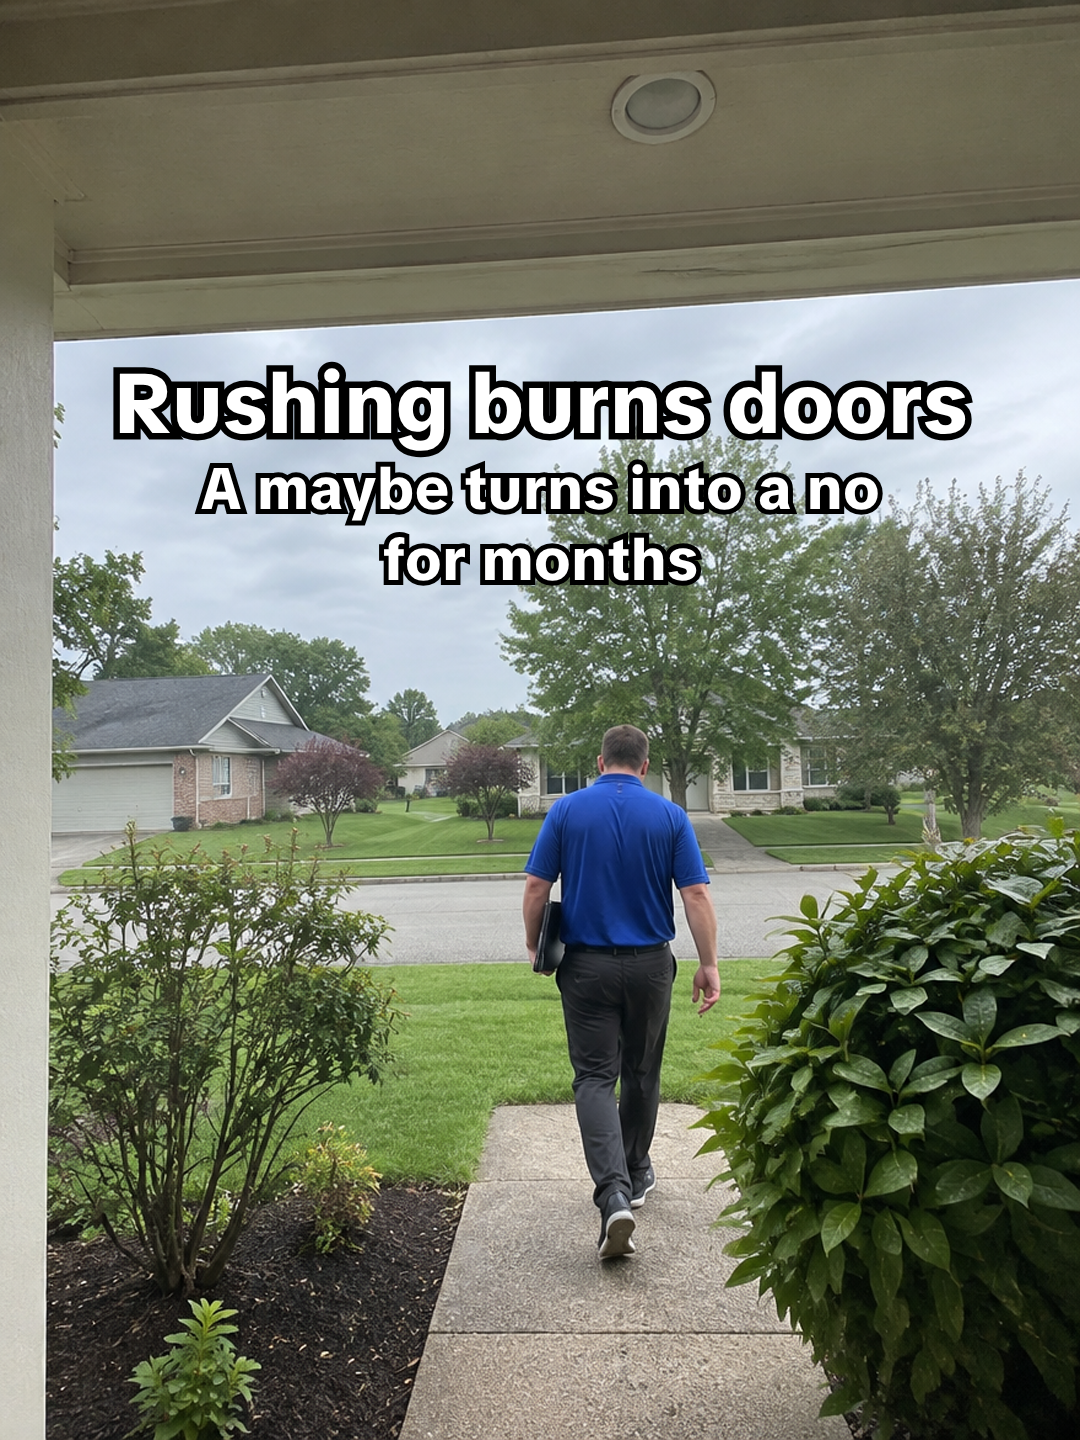
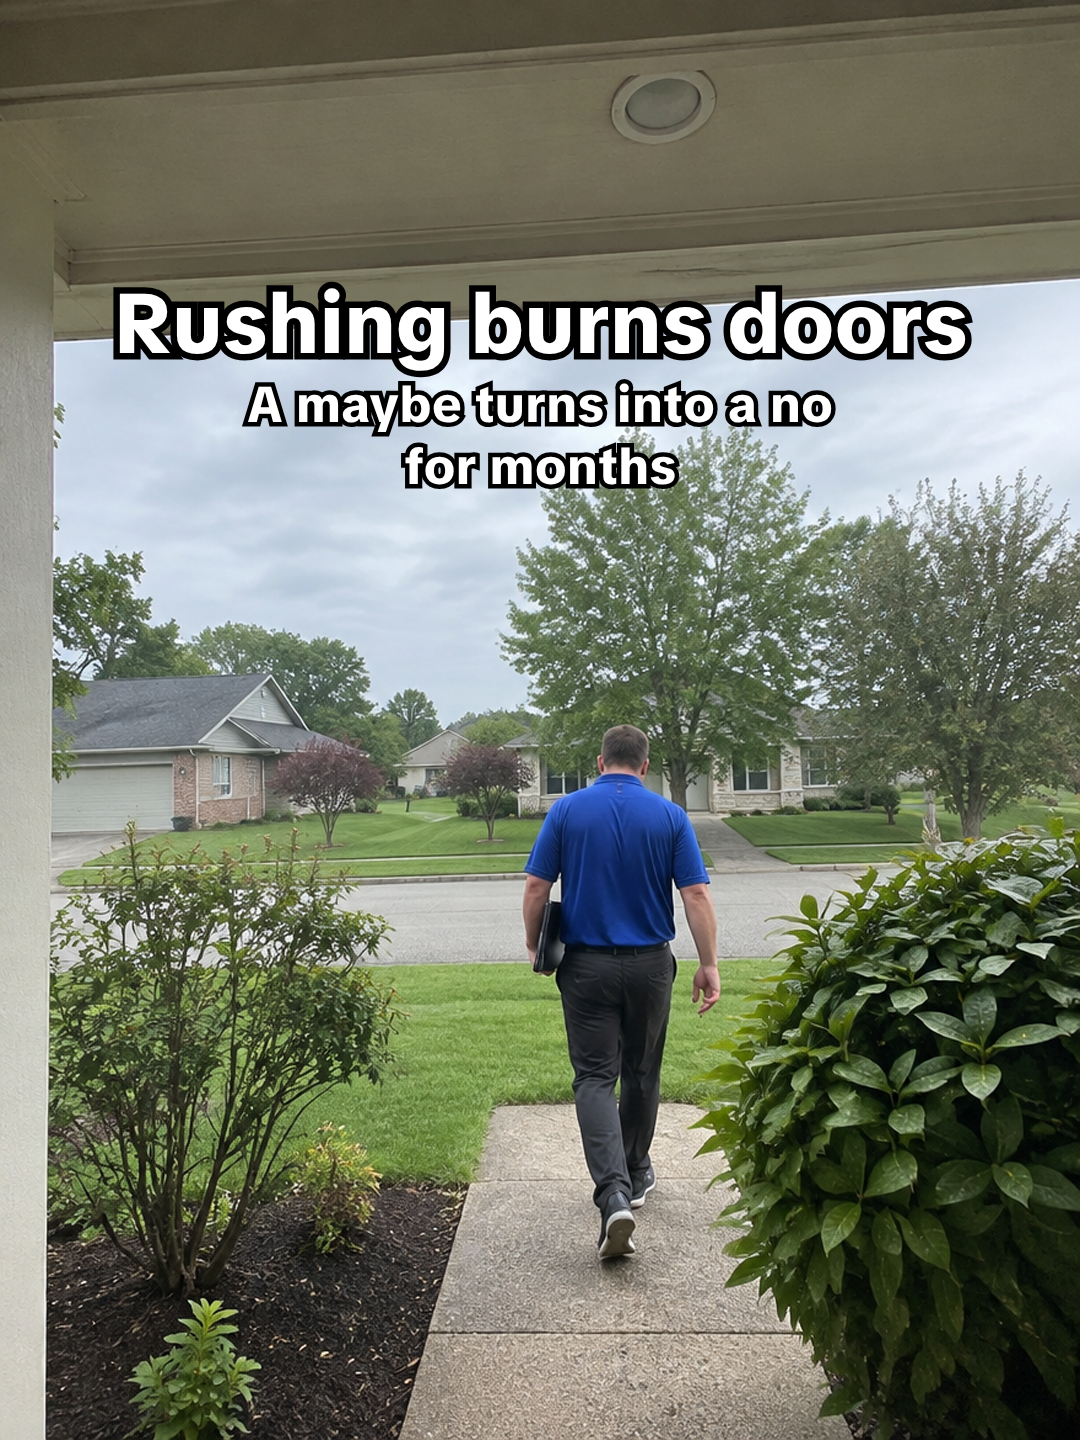
more doors carousel: smaller sublines, higher
Claude-Session: https://claude.ai/code/session_01EVxDagMumu1dzbEEzpRUBn

Changed region(s): [[0.0917, 0.1875, 0.9167, 0.4062]]

diff --git a/video_research/content_kit/edits/more_doors_slides/tool2.html b/video_research/content_kit/edits/more_doors_slides/tool2.html
@@ -3,9 +3,9 @@
 html,body{margin:0;width:1080px;height:1440px;overflow:hidden;background:#000}
 img.bg{position:absolute;inset:0;width:1080px;height:1440px;object-fit:cover}
 /* TikTok default "Classic" text: TikTok Sans, white fill, black outline, no background */
-.tt{position:absolute;left:36px;right:36px;top:360px;text-align:center;color:#fff;font-family:TT;font-weight:800;paint-order:stroke fill}
+.tt{position:absolute;left:36px;right:36px;top:280px;text-align:center;color:#fff;font-family:TT;font-weight:800;paint-order:stroke fill}
 .tt h1{margin:0 0 10px;font-size:84px;line-height:1.04;letter-spacing:-.5px;-webkit-text-stroke:13px #000;paint-order:stroke fill}
-.tt p{margin:6px 0 0;font-size:58px;line-height:1.12;-webkit-text-stroke:10px #000;paint-order:stroke fill}
+.tt p{margin:6px 0 0;font-size:50px;line-height:1.12;-webkit-text-stroke:9px #000;paint-order:stroke fill}
 #cta{position:absolute;left:0;right:0;top:50%;transform:translateY(-50%);text-align:center}
 #cta .r{display:inline-block;background:#FF1430;color:#fff;font:800 116px TT;padding:12px 48px 26px;border-radius:24px}
 #cta .s{color:#fff;font:800 60px TT;line-height:1.1;margin:22px 40px 0;-webkit-text-stroke:10px #000;paint-order:stroke fill}
